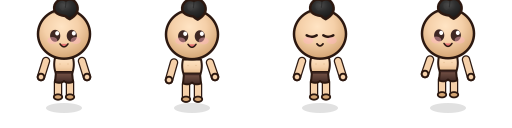
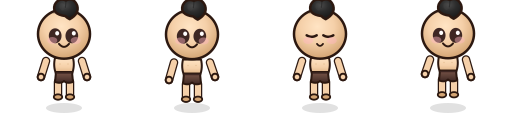
Bigger eyes & simpler mouth: no red lip fill, just cute curve
- Increase eyeSize from 6 to 7.5 for more prominent cute eyes
- Happy/celebrate mouth: remove red fill, use simple outline curve
- Overall more childlike and friendly appearance

https://claude.ai/code/session_015pMPoBHWnGv3b918Z49D2y

Changed region(s): [[0.8438, 0.2188, 0.9062, 0.375], [0.3438, 0.2188, 0.4062, 0.375], [0.0938, 0.2188, 0.1562, 0.375]]

diff --git a/src/templates/chibi_parts.js b/src/templates/chibi_parts.js
@@ -136,7 +136,7 @@ function chibiHead(opts = {}) {
   const eyeL = cx - r * 0.32;
   const eyeR = cx + r * 0.32;
   const eyeY = cy + r * 0.05;
-  const eyeSize = 6;
+  const eyeSize = 7.5;
 
   if (expr === 'blink') {
     // Mắt nhắm (chớp mắt — đường cong nhẹ)
@@ -182,8 +182,8 @@ function chibiHead(opts = {}) {
   const mouthY = cy + r * 0.38;
 
   if (expr === 'happy' || expr === 'celebrate') {
-    // Cười há miệng
-    body += `    <path d="M${cx - 4} ${mouthY} Q ${cx} ${mouthY + 6}, ${cx + 4} ${mouthY}" fill="${PALETTE.hero.mouth}" stroke="${outline}" stroke-width="1.5" stroke-linecap="round" />\n`;
+    // Cười cute — đường cong đơn giản, không fill đỏ
+    body += `    <path d="M${cx - 5} ${mouthY} Q ${cx} ${mouthY + 6}, ${cx + 5} ${mouthY}" fill="none" stroke="${outline}" stroke-width="2" stroke-linecap="round" />\n`;
   } else if (expr === 'hurt') {
     // Méo miệng
     body += `    <path d="M${cx - 4} ${mouthY + 2} Q ${cx} ${mouthY - 2}, ${cx + 4} ${mouthY + 2}" fill="none" stroke="${outline}" stroke-width="2" stroke-linecap="round" />\n`;
@@ -191,7 +191,7 @@ function chibiHead(opts = {}) {
     // Mím miệng
     body += `    <line x1="${cx - 3}" y1="${mouthY}" x2="${cx + 3}" y2="${mouthY}" stroke="${outline}" stroke-width="2" stroke-linecap="round" />\n`;
   } else {
-    // Miệng nhỏ xinh (default)
+    // Miệng nhỏ cute (default)
     body += `    <path d="M${cx - 3} ${mouthY} Q ${cx} ${mouthY + 4}, ${cx + 3} ${mouthY}" fill="none" stroke="${outline}" stroke-width="1.8" stroke-linecap="round" />\n`;
   }
 
